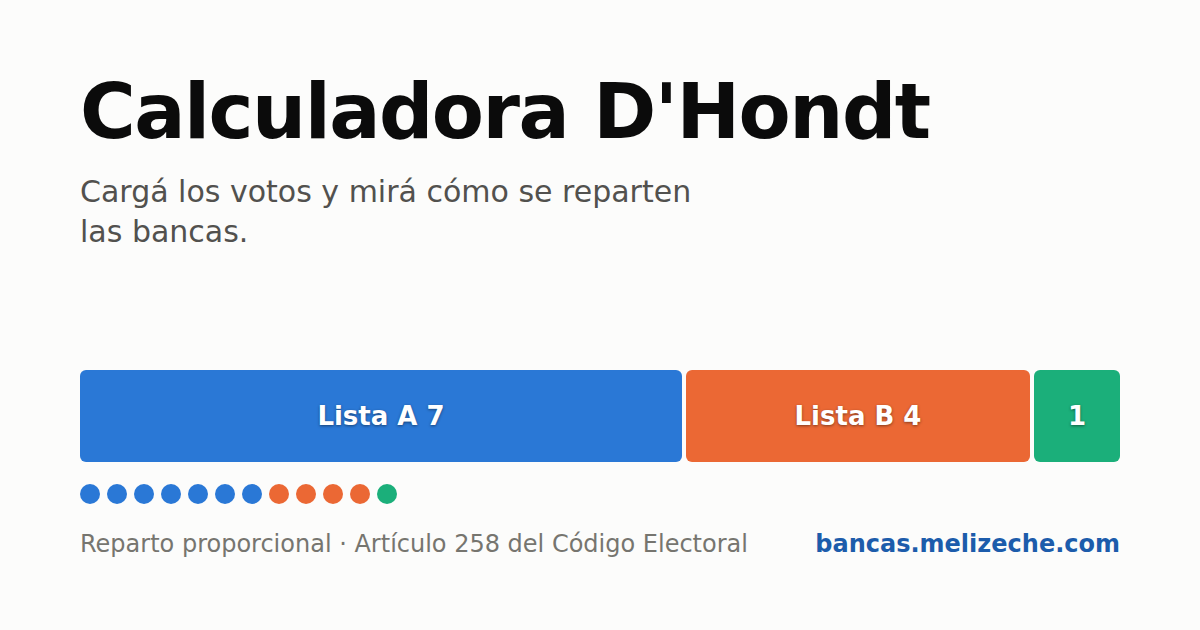
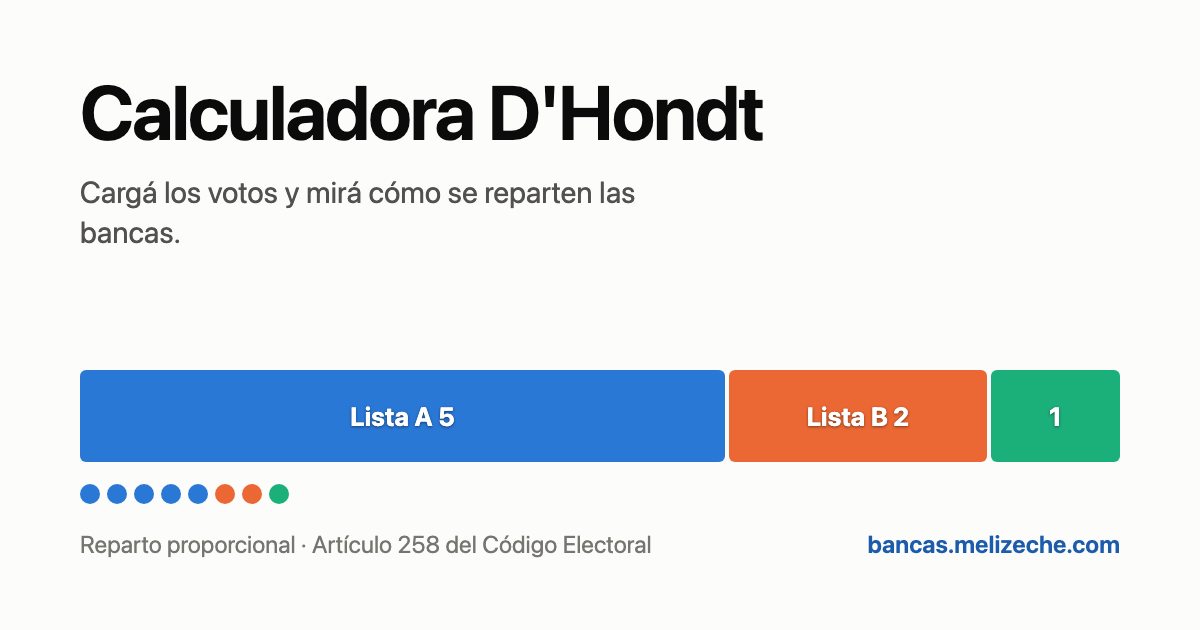
simplify initial and example data

diff --git a/js/core.js b/js/core.js
@@ -28,7 +28,7 @@ const PALETA = [
 ];
 
 const BANCAS_POR_DEFECTO = 12;
-const LISTAS_POR_DEFECTO = 6;
+const LISTAS_POR_DEFECTO = 3;
 
 /* Las claves ya no llevan «asuncion»: la herramienta sirve para cualquier
  * elección y la de Asunción es una más de las que se pueden elegir. */

diff --git a/README.md b/README.md
@@ -97,7 +97,7 @@ Vienen cargadas tres Juntas Municipales, tomadas del [simulador oficial del TSJE
 | Junta Municipal de Encarnación | `59.7.0` | 7 | 84 | 12 |
 | Junta Municipal de Ciudad del Este | `59.10.0` | 8 | 96 | 12 |
 
-Las tres se eligen en el desplegable. Ninguna viene cargada de entrada: la página se abre con una elección de ejemplo (seis listas llamadas A, B, C…, 12 bancas, todo en cero). Con varios conjuntos de datos, arrancar siempre en una ciudad no tiene sentido.
+Las tres se eligen en el desplegable. Ninguna viene cargada de entrada: la página se abre con una elección de ejemplo (tres listas llamadas A, B y C, 12 bancas, todo en cero). Con varios conjuntos de datos, arrancar siempre en una ciudad no tiene sentido.
 
 Los votos los pone quien usa la herramienta: los archivos de candidaturas traen todos los totales en cero. Esto no publica ni pronostica resultados, calcula el reparto de los números que uno cargue.
 
@@ -356,7 +356,7 @@ El `canonical` está porque Cloudflare Pages sirve el mismo contenido también e
 
 `og.png` se genera con `tools/og.mjs`: arma la cinta de bancas en HTML y la fotografía con un navegador headless. Necesita Playwright, que no es dependencia del proyecto (es para regenerar la imagen si cambia el diseño), y acepta `CHROMIUM=<ruta>` para usar un navegador ya instalado.
 
-Dibuja el ejemplo de `datos/ejemplo.json`, no una elección real: listas A, B y C con los colores de la paleta. El reparto que se ve (7-4-1 sobre 12 bancas) lo calcula el mismo `js/core.js` con esos votos.
+Dibuja el ejemplo de `datos/ejemplo.json`, no una elección real: listas A, B y C con los colores de la paleta. El reparto que se ve (5-2-1 sobre 8 bancas) lo calcula el mismo `js/core.js` con esos votos.
 
 ### Otros
 
